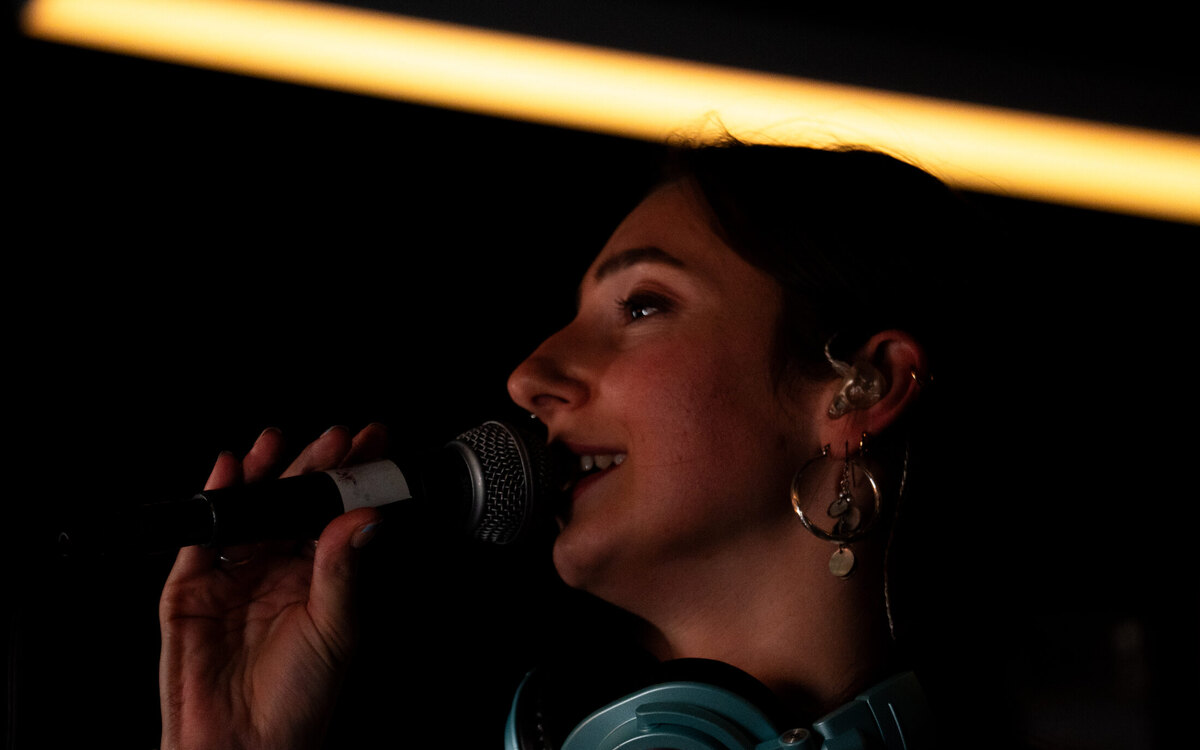
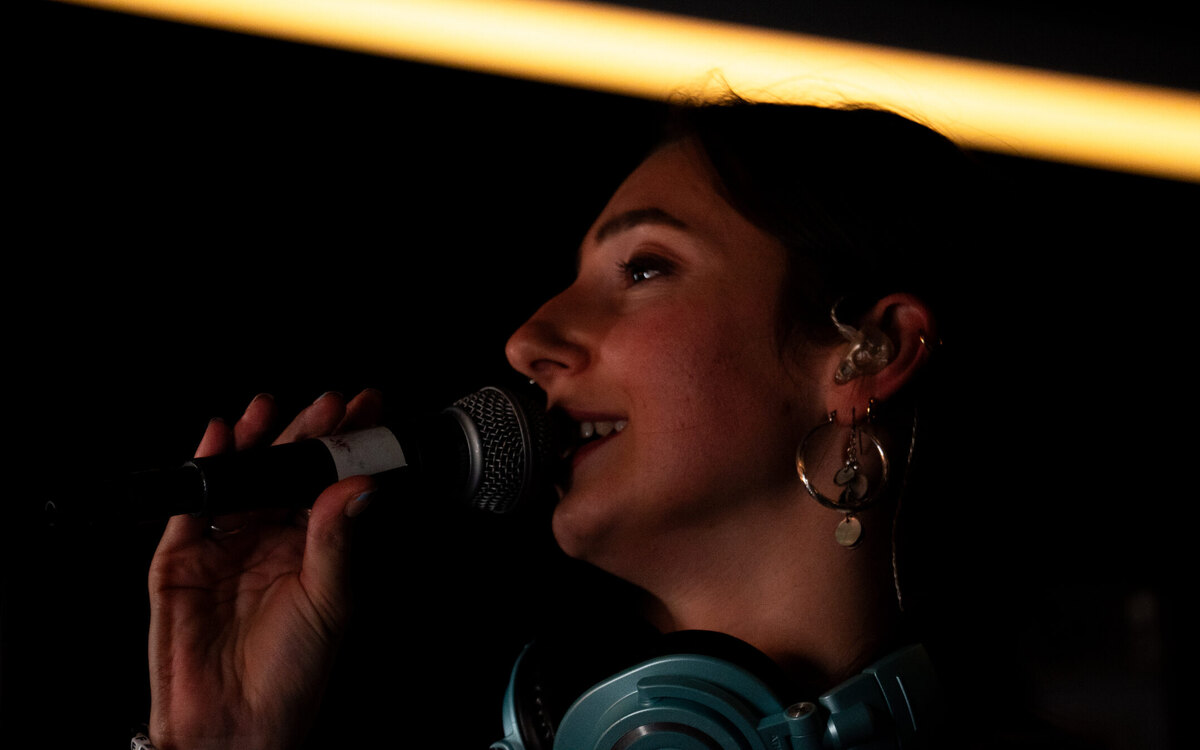
tweaks

Changed region(s): [[0.0, 0.0, 1.0, 1.0], [0.0925, 0.5213, 0.3392, 1.0], [0.74, 0.9507, 0.7708, 0.9813]]

diff --git a/sam-kitt/index.html b/sam-kitt/index.html
@@ -352,7 +352,7 @@ input:focus{border-color:var(--orange)}
 
       <h2>The headliner</h2>
       <div class="headliner">
-        <p><b>Sam Kitt</b> is a Welsh techno DJ and producer — driving rhythms, dark melodic depth and cutting-edge sound design. He's <b>one of our own</b>, and he's just landed a massive one: an official rework of Enrico Sangiuliano's <i>Blooming Era</i>, out on <b>Drumcode</b> for the label's 30th-anniversary series. With releases on Drumcode, Kraftek, Tronic and Memoro — and sets played out at Tomorrowland, Awakenings and ADE — Sam brings it home to Cardiff for the third 6FEET Deep. A milestone for him, and a night for the whole city to celebrate with him. Expect tension, momentum and explosive energy.</p>
+        <p><b>Sam Kitt</b> is a Welsh techno DJ and producer — driving rhythms, dark melodic depth and cutting-edge sound design. He's <b>one of our own</b>, and he's just landed a massive one: an official rework of Enrico Sangiuliano's <i>Blooming Era</i>, out on <a href="https://www.instagram.com/drumcoderecords/" target="_blank" rel="noopener" style="color:inherit;text-decoration:underline;text-underline-offset:2px"><b>Drumcode</b></a> for the label's 30th-anniversary series. With releases on Drumcode, Kraftek, Tronic and Memoro — and sets played out at Tomorrowland, Awakenings and ADE — Sam brings it home to Cardiff for the third 6FEET Deep. A milestone for him, and a night for the whole city to celebrate with him. Expect tension, momentum and explosive energy.</p>
         <div class="links"><a class="ig-btn" href="https://instagram.com/samkittdj" target="_blank" rel="noopener"><svg viewBox="0 0 24 24" fill="none" stroke="currentColor" stroke-width="2"><rect x="3" y="3" width="18" height="18" rx="5"/><circle cx="12" cy="12" r="4"/><circle cx="17.5" cy="6.5" r="1" fill="currentColor"/></svg>@samkittdj</a><a class="ig-btn" href="https://open.spotify.com/artist/4nZj2Iwb9yJSocd8OlpKBo" target="_blank" rel="noopener"><svg viewBox="0 0 24 24" fill="none" stroke="currentColor" stroke-width="2" stroke-linecap="round"><circle cx="12" cy="12" r="10"/><path d="M7 9.5c3.5-1 7.5-.6 10 1M7.5 12.8c3-.8 6.2-.4 8.4.9M8 15.8c2.4-.6 4.7-.3 6.5.7"/></svg>Spotify</a><a class="ig-btn" href="https://soundcloud.com/samkitt" target="_blank" rel="noopener"><svg viewBox="0 0 24 24" fill="none" stroke="currentColor" stroke-width="2" stroke-linecap="round" stroke-linejoin="round"><path d="M3 15v-3M6 16v-6M9 16v-8M12 16V9"/><path d="M15 16V8a4 4 0 0 1 7.5-1.9A3 3 0 0 1 21 16z"/></svg>SoundCloud</a></div>
       </div>
 
@@ -421,7 +421,7 @@ input:focus{border-color:var(--orange)}
       </section>
       <section class="also"><h2>Catch up on past nights</h2>
         <a class="also-card" href="../k-65/"><img src="../assets/k65-tile.jpg?v=54e205d2" alt=""><div class="g"></div><div class="b"><div><span class="num">002</span><h3>K-65</h3><span class="d">Fri 30 Oct · Electro, breaks, techno</span></div><span class="go">The recap</span></div></a>
-        <a class="also-card" href="../viridity/" style="margin-top:14px"><img src="../assets/viridity-tile.jpg?v=98a1b34e" alt=""><div class="g"></div><div class="b"><div><span class="num">001</span><h3>Viridity</h3><span class="d">Sat 17 Oct · Drum &amp; bass, live vocals</span></div><span class="go">The recap</span></div></a>
+        <a class="also-card" href="../viridity/" style="margin-top:14px"><img src="../assets/viridity-tile.jpg?v=8ecb1dc2" alt=""><div class="g" style="background:linear-gradient(to top,rgba(0,0,0,.92) 4%,rgba(0,0,0,.35) 26%,transparent 52%)"></div><div class="b"><div><span class="num">001</span><h3>Viridity</h3><span class="d">Sat 17 Oct · Drum &amp; bass, live vocals</span></div><span class="go">The recap</span></div></a>
       </section>
       <section class="mission" aria-label="Why you matter">
         <div class="mk">Why you matter</div>

diff --git a/index.html b/index.html
@@ -100,14 +100,14 @@ h1 .six{color:var(--red)}
   <p class="kicker">Upcoming</p>
   <div class="events">
     <a class="ev" href="sam-kitt/" data-slug="003-samkitt">
-      <img src="assets/sam-kitt-card.jpg" alt="">
+      <img src="assets/sam-kitt-card.jpg?v=2e0d5ab1" alt="">
       <div class="grad"></div>
       <div class="body">
         <span class="num">003</span><h2>Sam Kitt</h2>
-        <p class="date">Sat 12 Dec &middot; Doors 17:30 &middot; Filming from 18:00 &middot; Ends 21:00 &middot; Techno &middot; Fresh off Drumcode</p>
+        <p class="date">Sat 12 Dec &middot; Doors 17:30 &middot; Techno</p>
         <div class="meter-top"><b data-label>Tickets being claimed</b><span data-count></span></div>
         <div class="bar"><i data-bar></i></div>
-        <span class="btn" data-btn>Get your free Sam Kitt ticket</span>
+        <span class="btn" data-btn>Grab Tickets</span>
       </div>
     </a>
     <a class="ev about" href="what-is-6feet-deep/">
